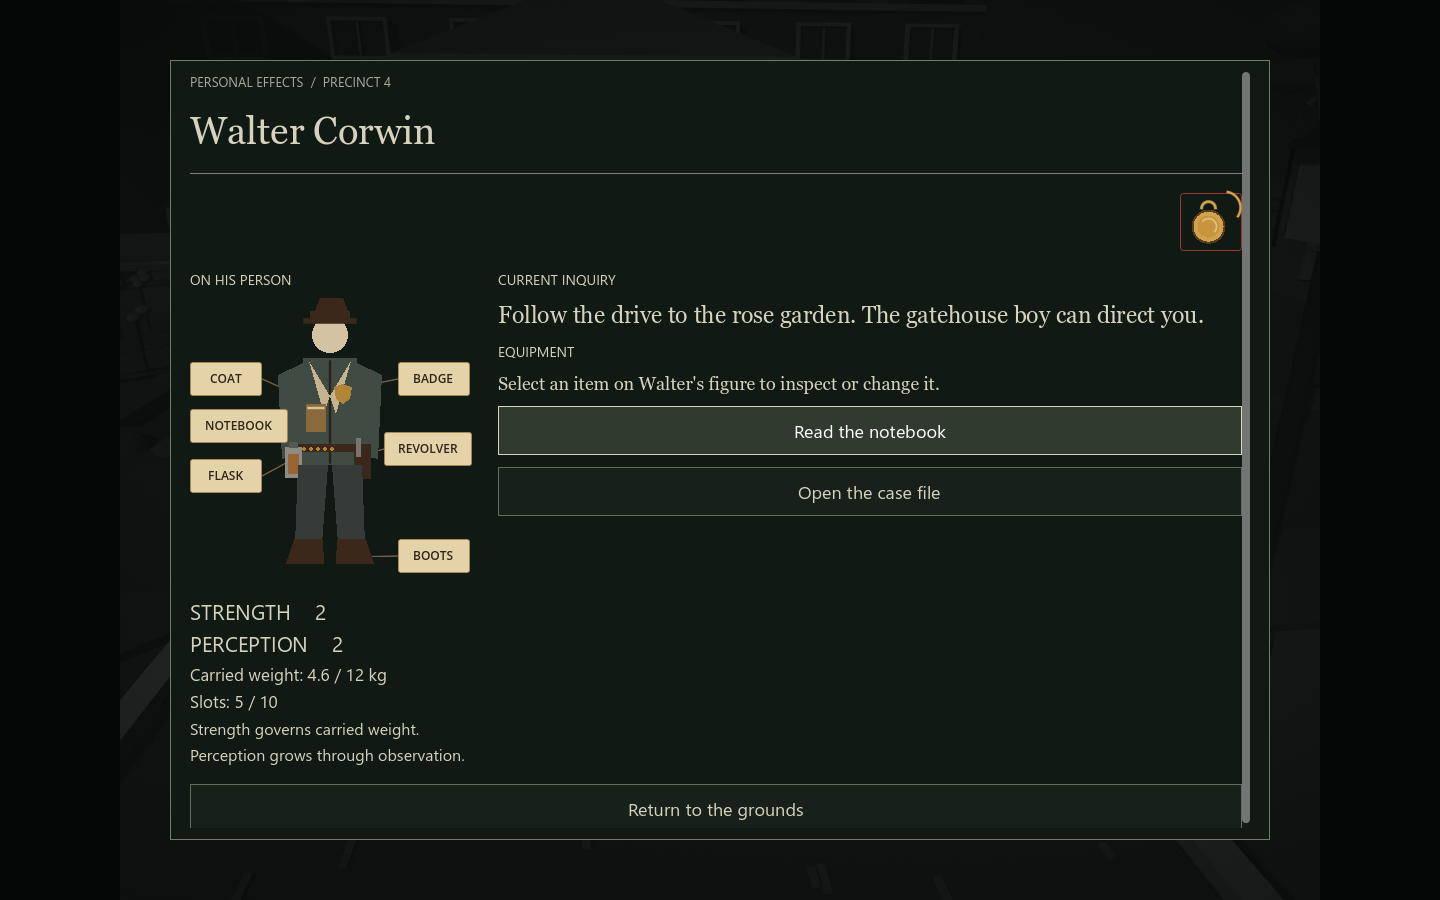
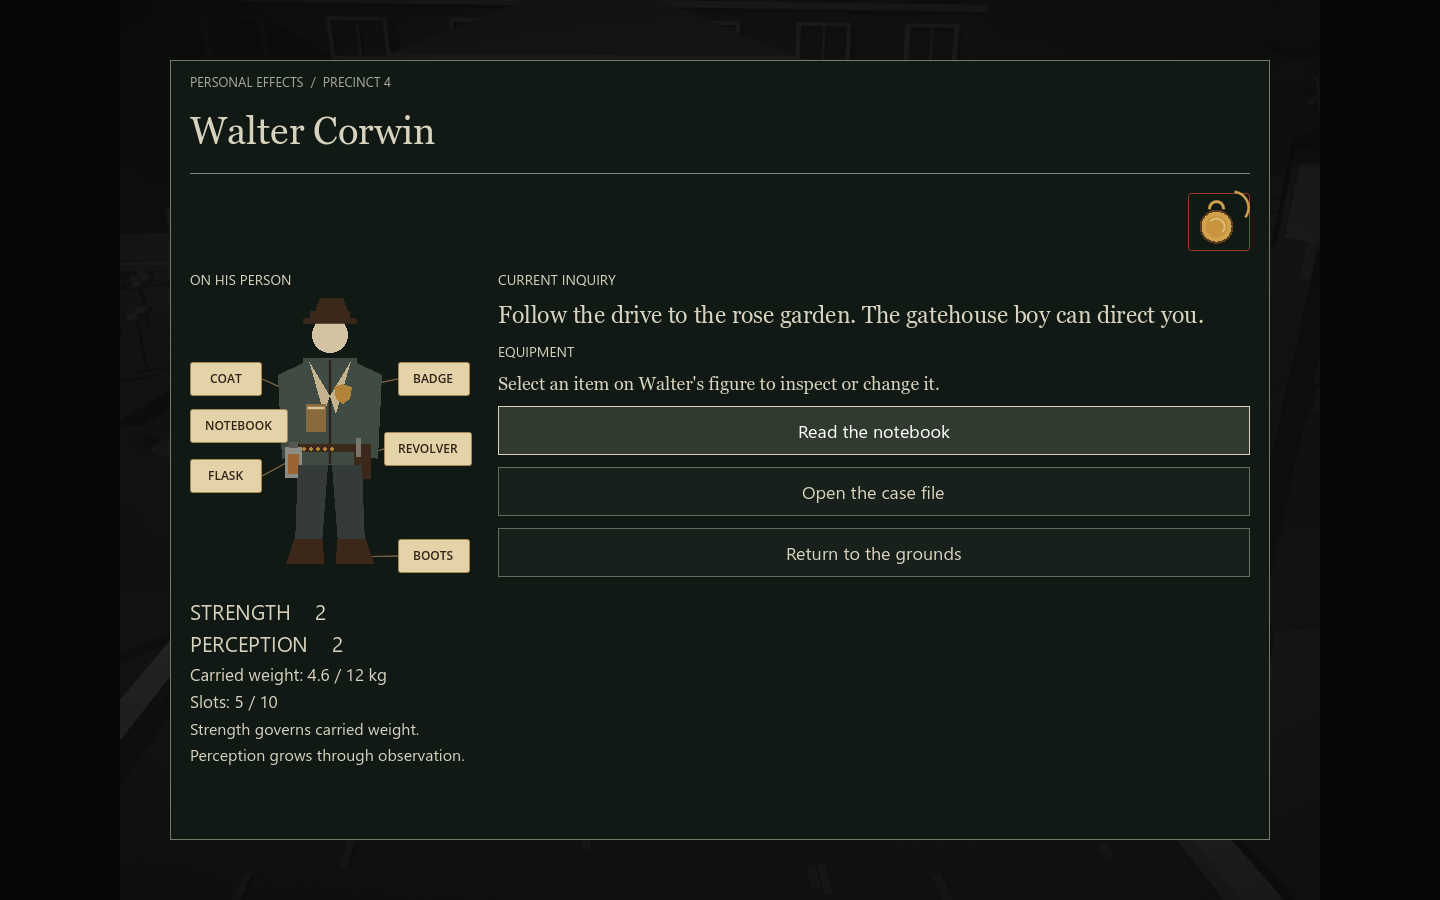
Return Personal Effects child screens to paper doll

diff --git a/docs/qa/PAPER_DOLL_PASS.md b/docs/qa/PAPER_DOLL_PASS.md
@@ -11,10 +11,12 @@ Implemented on `feature/analogue-pocket-watch` as the second focused UI refineme
 - The badge appears only on the police coat while it remains in Walter's possession. Plain-coat and `badge_lost` inspections explain the actual state.
 - Revolver inspection reports live ammunition. Boots are a short character detail. Notebook selection opens the existing notebook.
 - The equipment paragraph and full-width watch button were removed. A compact closed-watch control occupies the previously empty upper-right area and opens the existing analogue face.
+- `Return to the grounds` sits directly beneath the notebook and case-file actions, so the player does not scroll past the paper doll merely to close the parent screen.
+- Screens entered from Personal Effects retain that parent context: closing the watch, flask, notebook, case file, fact pages, badge, revolver or boots returns to the paper doll. The same screens opened directly from gameplay still close to gameplay.
 
 ## Verification
 
-- `tests/paper_doll_flow.gd`: all six controls exist; coat selection mutates the canonical state and redraws; badge visibility follows coat/loss; flask loss and ammunition mirror state; revolver, badge, flask and boots open their intended panels.
+- `tests/paper_doll_flow.gd`: all six controls exist; coat selection mutates the canonical state and redraws; badge visibility follows coat/loss; flask loss and ammunition mirror state; the grounds action stays in the right-hand action group; child equipment/notebook UI returns to the doll while directly opened UI still returns to gameplay.
 - `tests/pocket_watch_flow.gd`: the icon exists with its textual tooltip and still reaches the full watch behavior.
 - `docs/qa/paper_doll.png`: native Godot capture inspected for hierarchy, callout alignment, equipment readability, watch placement, scrolling and return-button placement.
 
